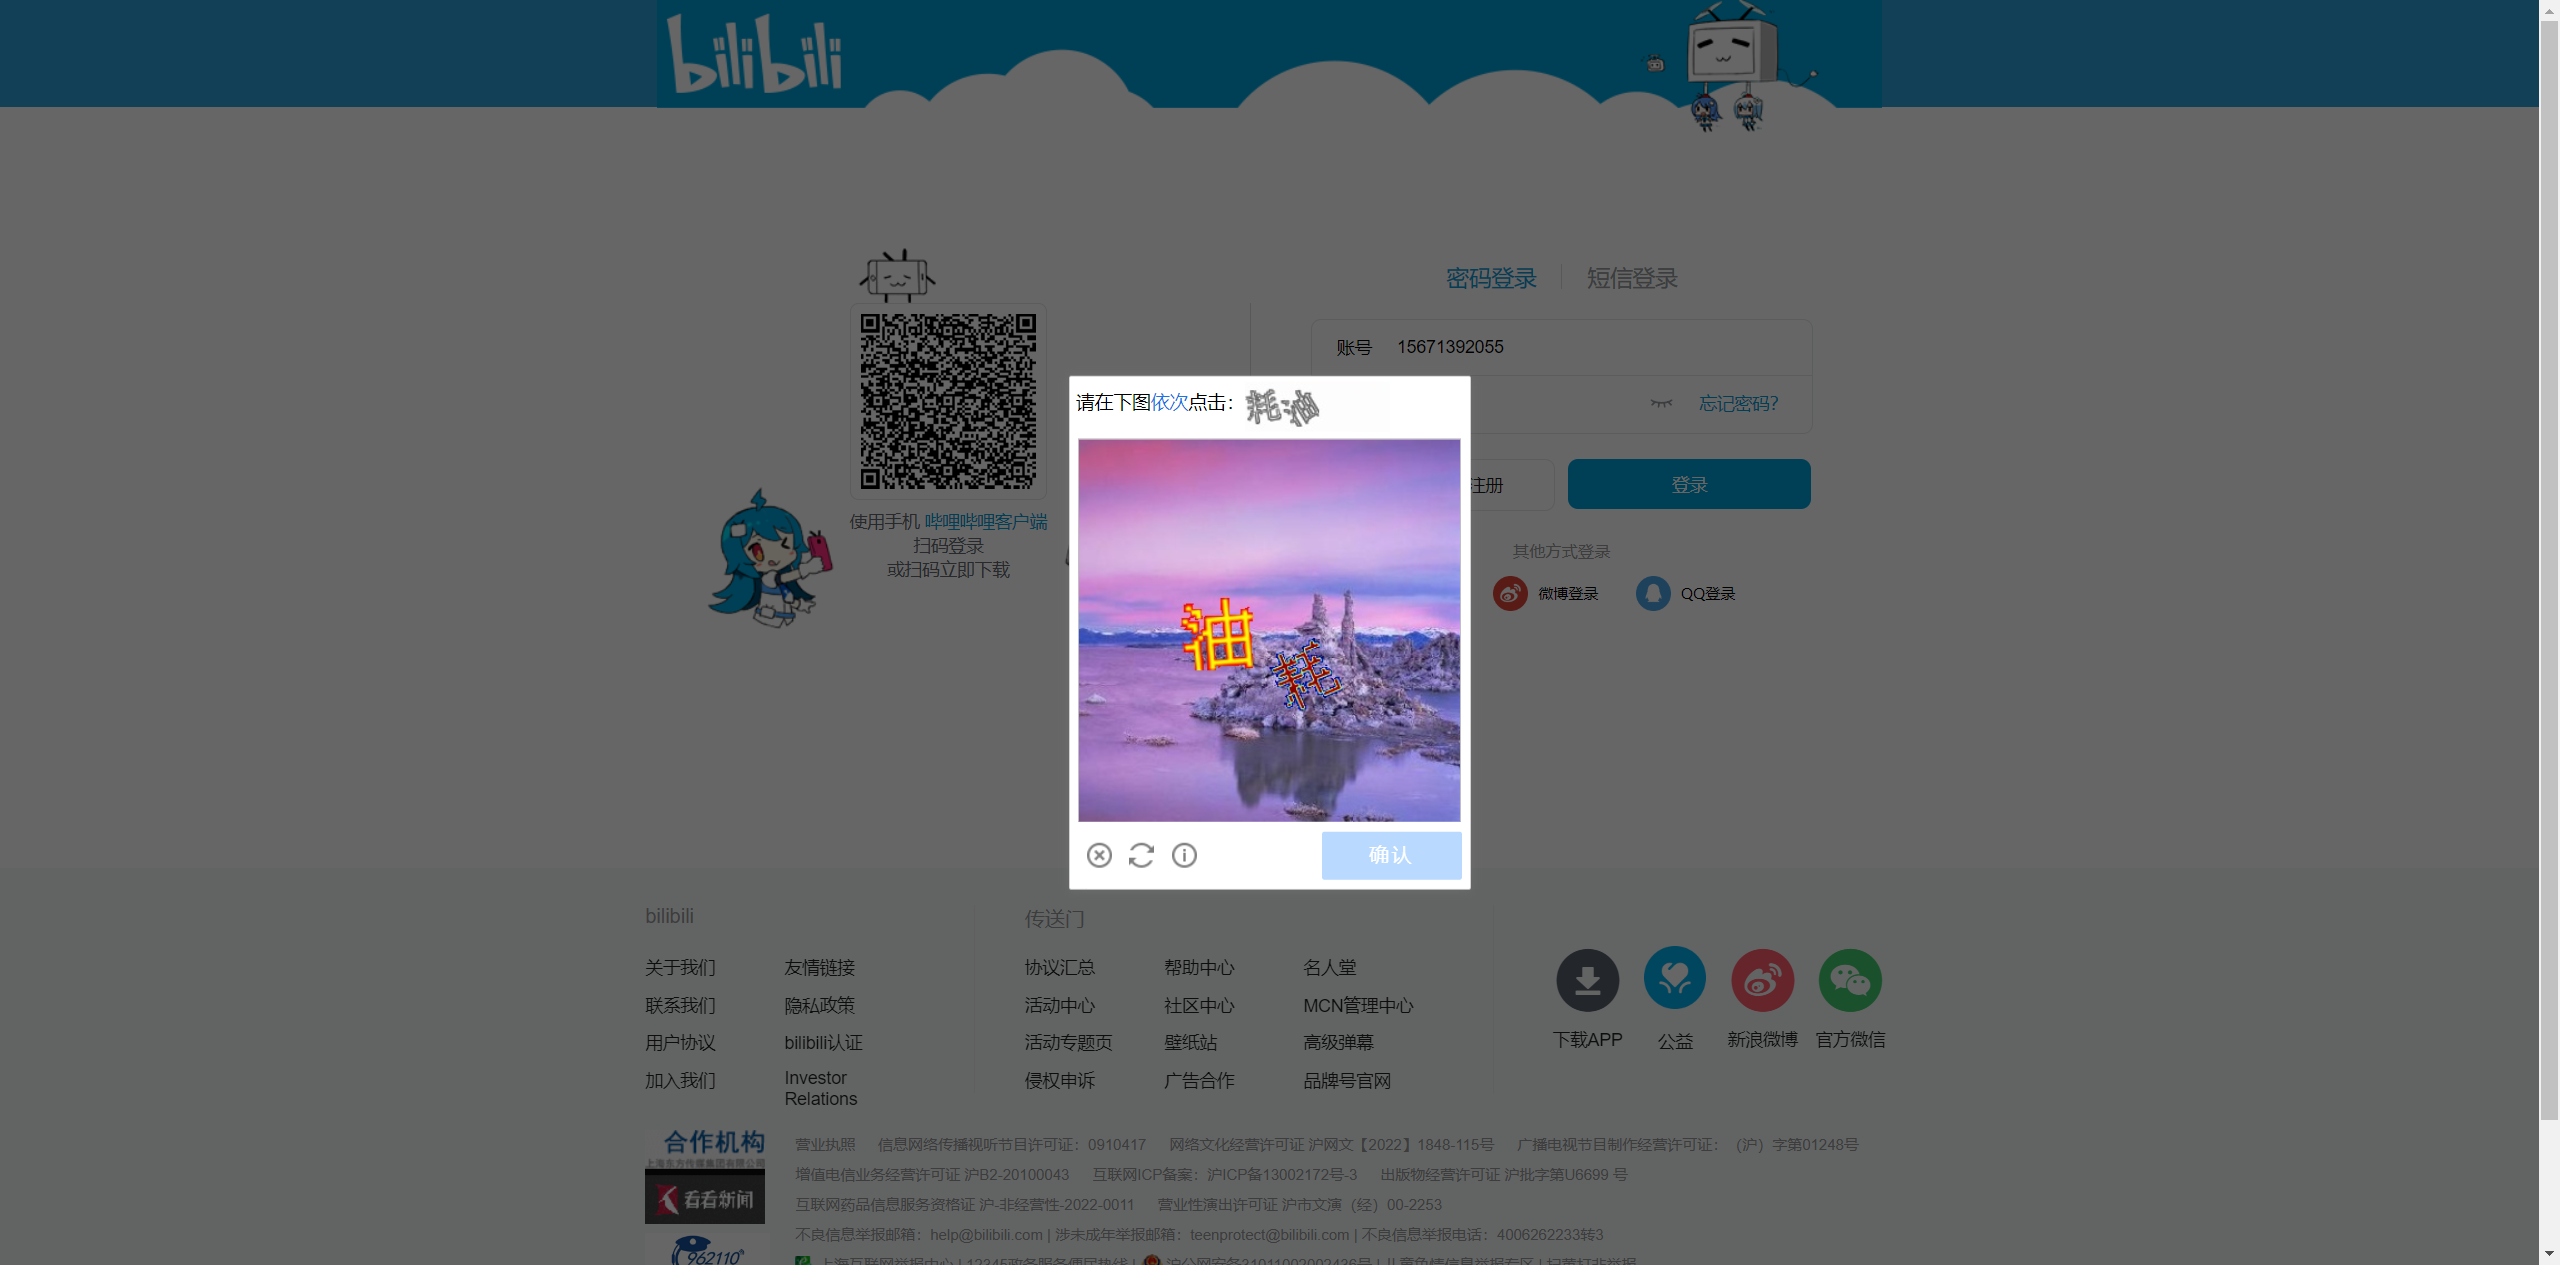
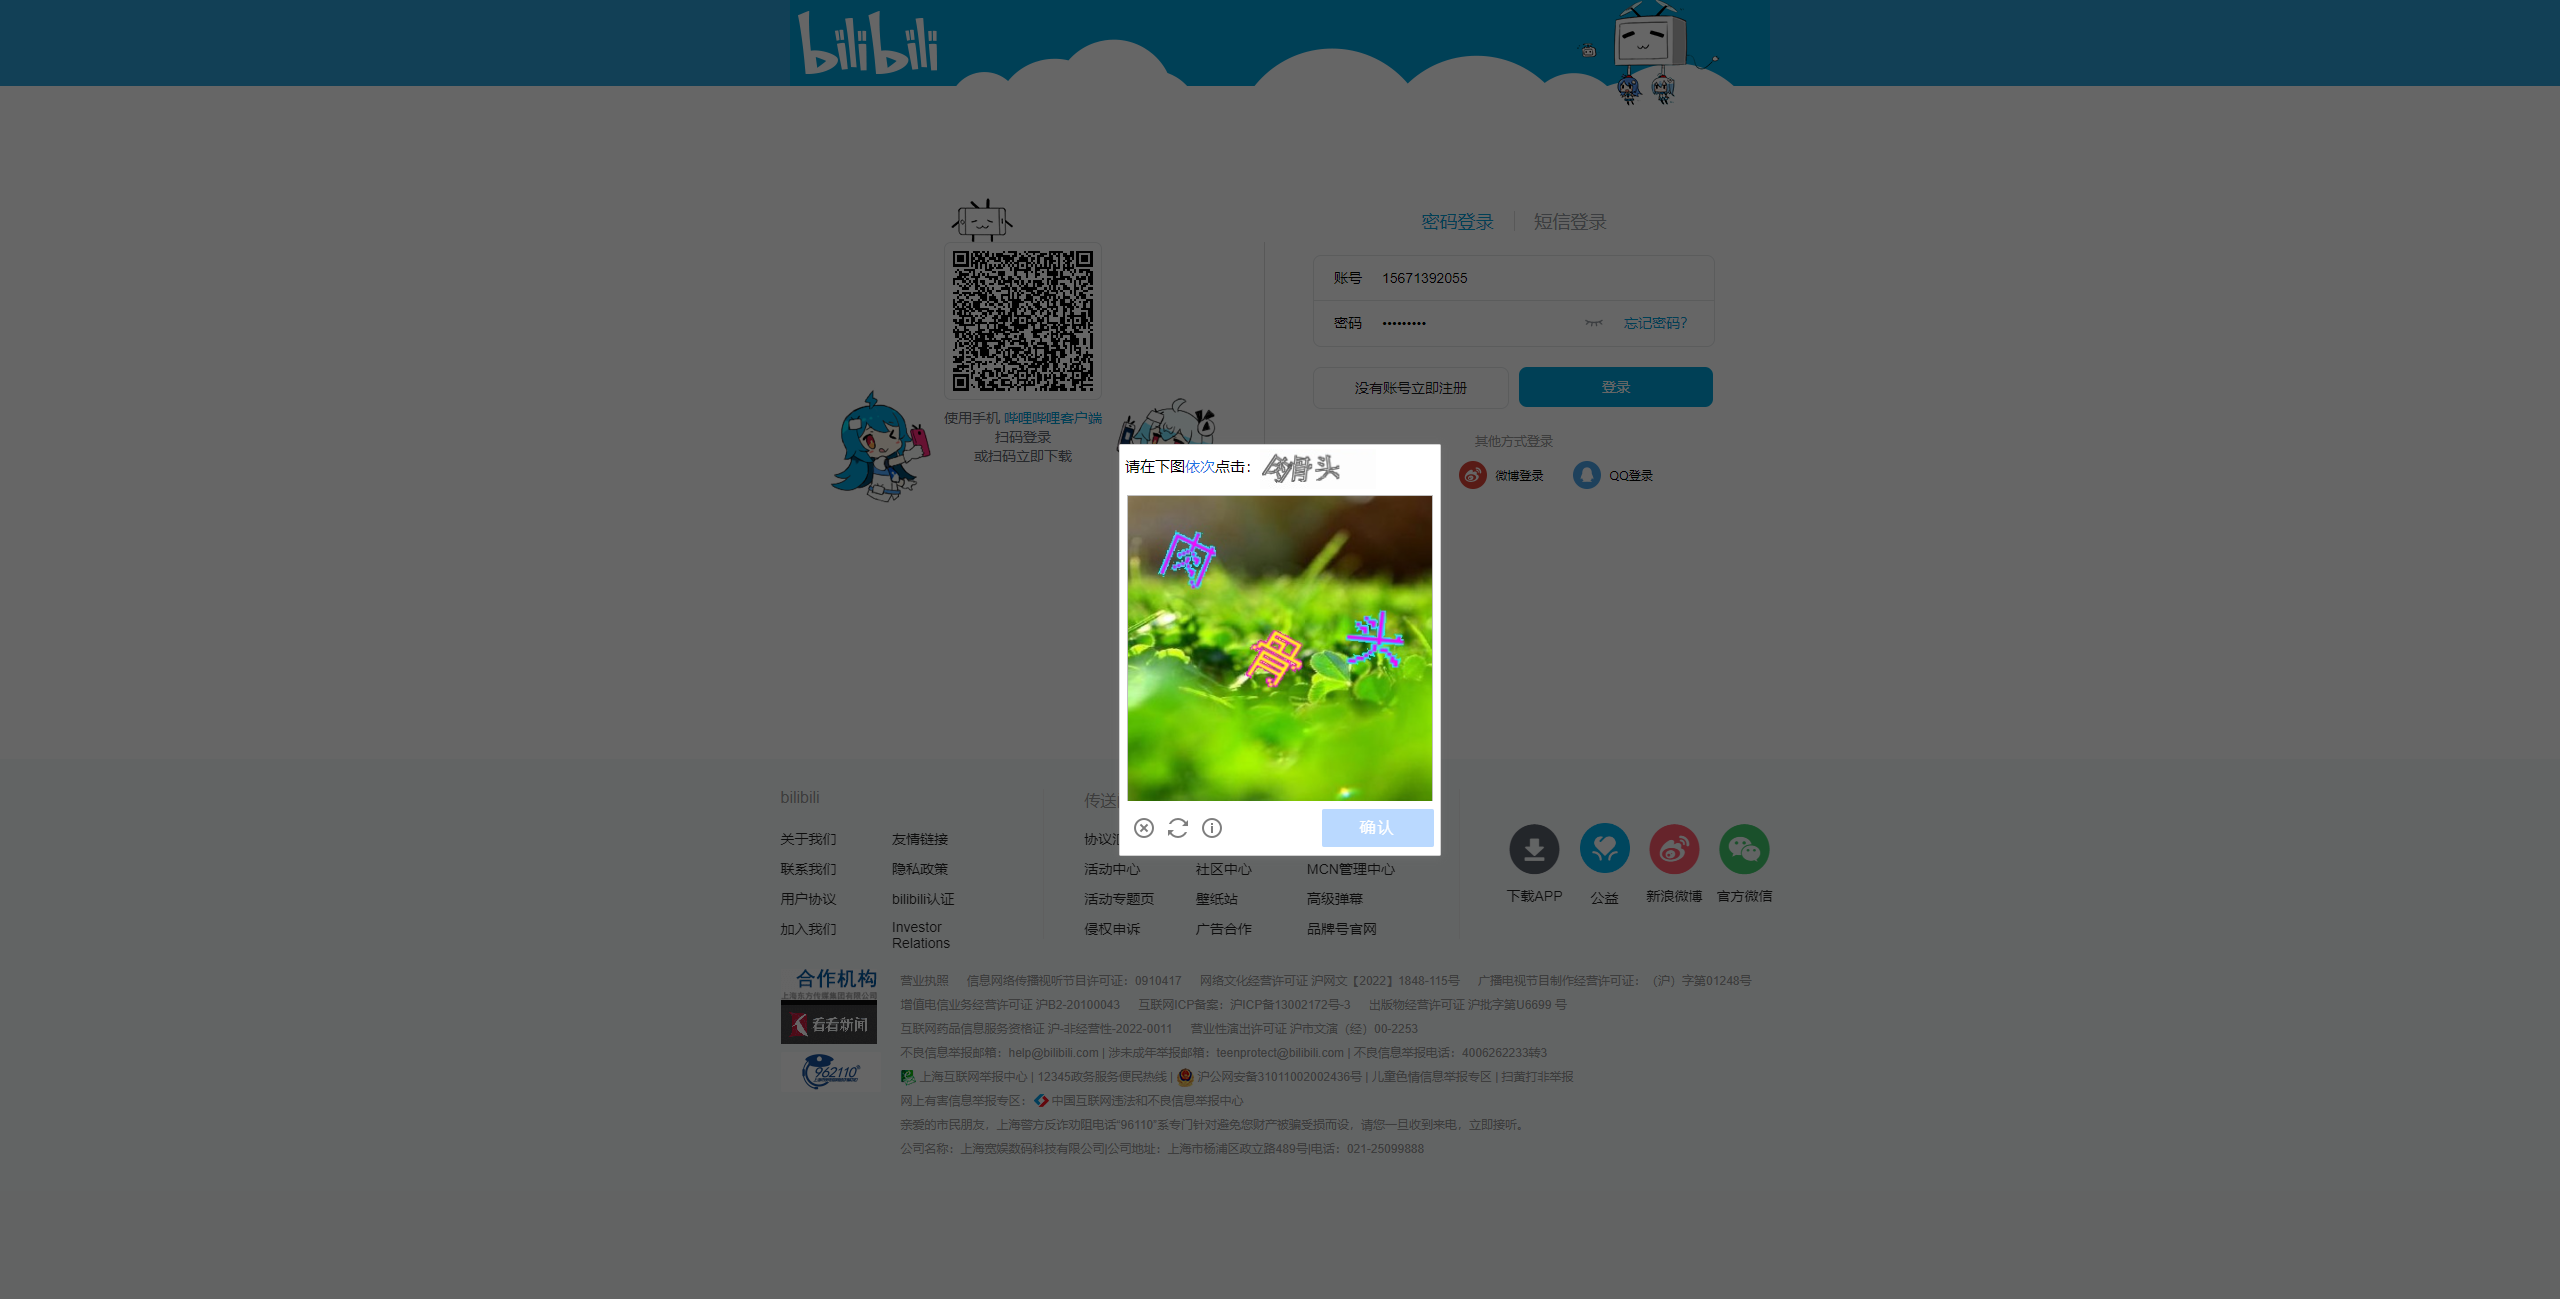
submit1020
本次终于解决了换显示器之后无法精准定位验证码文字的问题

根因：
24寸显示器换成27寸之后，为了方便使用，更改系统缩放为125%，之后定位坐标做了相应的调整，导致验证码文字定位准确率大大降低
解决：
更改显示器缩放为100%并调整坐标后，成功恢复精准定位验证码文字

总结：
之前就想过是缩放的问题，但是没有去实际验证，反而一直是在调整坐标，发现对于单个文字的定位时而准确时而异常，整张验证码的定位也是混乱无比。没有去验证缩放的原因是即使是125%缩放，也能完整的裁出验证码，完整的验证码也无法准确定位，自然没有想过往缩放方向发散。以后以后对于某些问题，一定不要有惯性思维，实践和发散才是正确的。

tip：
下一个问题是多用例执行，在第一个用例执行结束后无法启用第二个用例的浏览器

diff --git a/autotest_ui_bilibili/PageObjects/bilibili_login_page.py b/autotest_ui_bilibili/PageObjects/bilibili_login_page.py
@@ -111,7 +111,8 @@ class BilibiliLoginPage(BasePage, ReadLoginYaml):
         # height_stretch_rate = 1000 / int(height)
         # cropped_image = img.crop((862, 470, 1473, 1171))
         # 如果显示器的分辨率变了，此处的坐标也需要更改
-        cropped_image = img.crop((1067, 374, 1473, 895))  # 左、上、右、下
+        # cropped_image = img.crop((1067, 374, 1473, 892))  # 左、上、右、下 125%缩放
+        cropped_image = img.crop((1117, 442, 1443, 858))  # 左、上、右、下 100%缩放
         image_name = r'F:\GitHub\autotest_ui_bilibili\autotest_ui_bilibili\Outputs\reports\code_pic\image.png'
         # image_name = 'image.png'
         cropped_image.save(image_name)
@@ -127,8 +128,12 @@ class BilibiliLoginPage(BasePage, ReadLoginYaml):
             for i in range(len(result_data)):
                 result_order = result_data[f'顺序{i + 1}']
                 print(result_order['X坐标值'], result_order['Y坐标值'])
-                x_coord = int((int(result_order['X坐标值']) + 814))
-                y_coord = int((int(result_order['Y坐标值']) + 235))
+                # 125%缩放
+                # x_coord = int((int(result_order['X坐标值']) + (1067/1.25-15)))  # 814
+                # y_coord = int((int(result_order['Y坐标值']) + (374/1.25-20)))  # 235
+                # 100%缩放，用以下的坐标可以精准定位
+                x_coord = int((int(result_order['X坐标值']) + 1117))
+                y_coord = int((int(result_order['Y坐标值']) + 442))
                 print(x_coord, y_coord)
                 ActionChains(self.driver).move_by_offset(x_coord, y_coord).click().perform()
                 ActionChains(self.driver).move_by_offset(-x_coord, -y_coord).perform()
@@ -169,3 +174,23 @@ if __name__ == '__main__':
     # bilibili_login_page.pass_touclick(username="1277490394", password="1277490394", img_path='image.png', ID="08272733")
     # bilibili_login_page.click_confirm_button()
     bilibili_login_page.login_process()
+
+"""
+绝对路径改相对路径：
+import os
+
+# 绝对路径
+absolute_path = r"F:\GitHub\autotest_ui_bilibili\autotest_ui_bilibili\Outputs\reports\code_pic\browser.png"
+
+# 当前工作目录
+current_working_directory = r"F:\GitHub\autotest_ui_bilibili\autotest_ui_bilibili"
+
+# 转换为相对路径
+relative_path = os.path.relpath(absolute_path, current_working_directory)
+
+print(relative_path)
+
+
+输出的相对路径为：
+Outputs\reports\code_pic\browser.png
+"""
